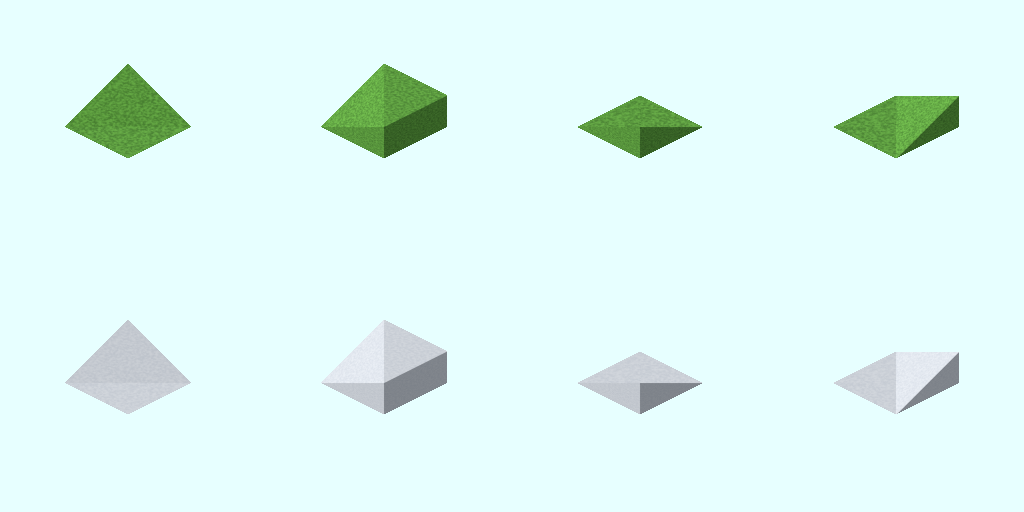
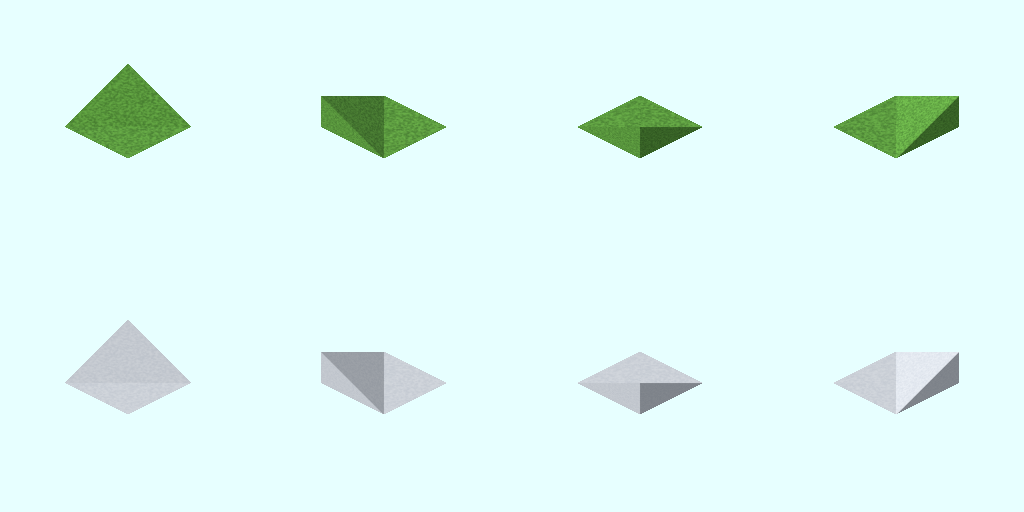
ami: fix embankment building corners and add the scenic aid sample (#372)

Changed region(s): [[0.3125, 0.125, 0.4375, 0.3125], [0.3125, 0.625, 0.4375, 0.8125]]

diff --git a/tools/blender/sheetlib/embankment_building.py b/tools/blender/sheetlib/embankment_building.py
@@ -14,7 +14,8 @@ from .core import H, clear_models, material, mesh_object, named_materials, set_a
 # 法面の向き（直線）は 南・東・北・西、台の高い角（外の角）は 北西・南西・南東・北東 の順にする
 EMBANKMENT_BUILDING_LAYOUTS = {
     "straight": (("ew", "front"), ("ns", "front"), ("ew", "back"), ("ns", "back")),
-    "corner": (("corner_nw", "front"), ("corner_sw", "back"), ("corner_se", "back"), ("corner_ne", "front")),
+    # 外の角（高いのがその角だけ）になる側: nw・sw・ne は front、se は back（_emb_height の内の角は front の se と back の nw・ne・sw）
+    "corner": (("corner_nw", "front"), ("corner_sw", "front"), ("corner_se", "back"), ("corner_ne", "front")),
 }
 
 
